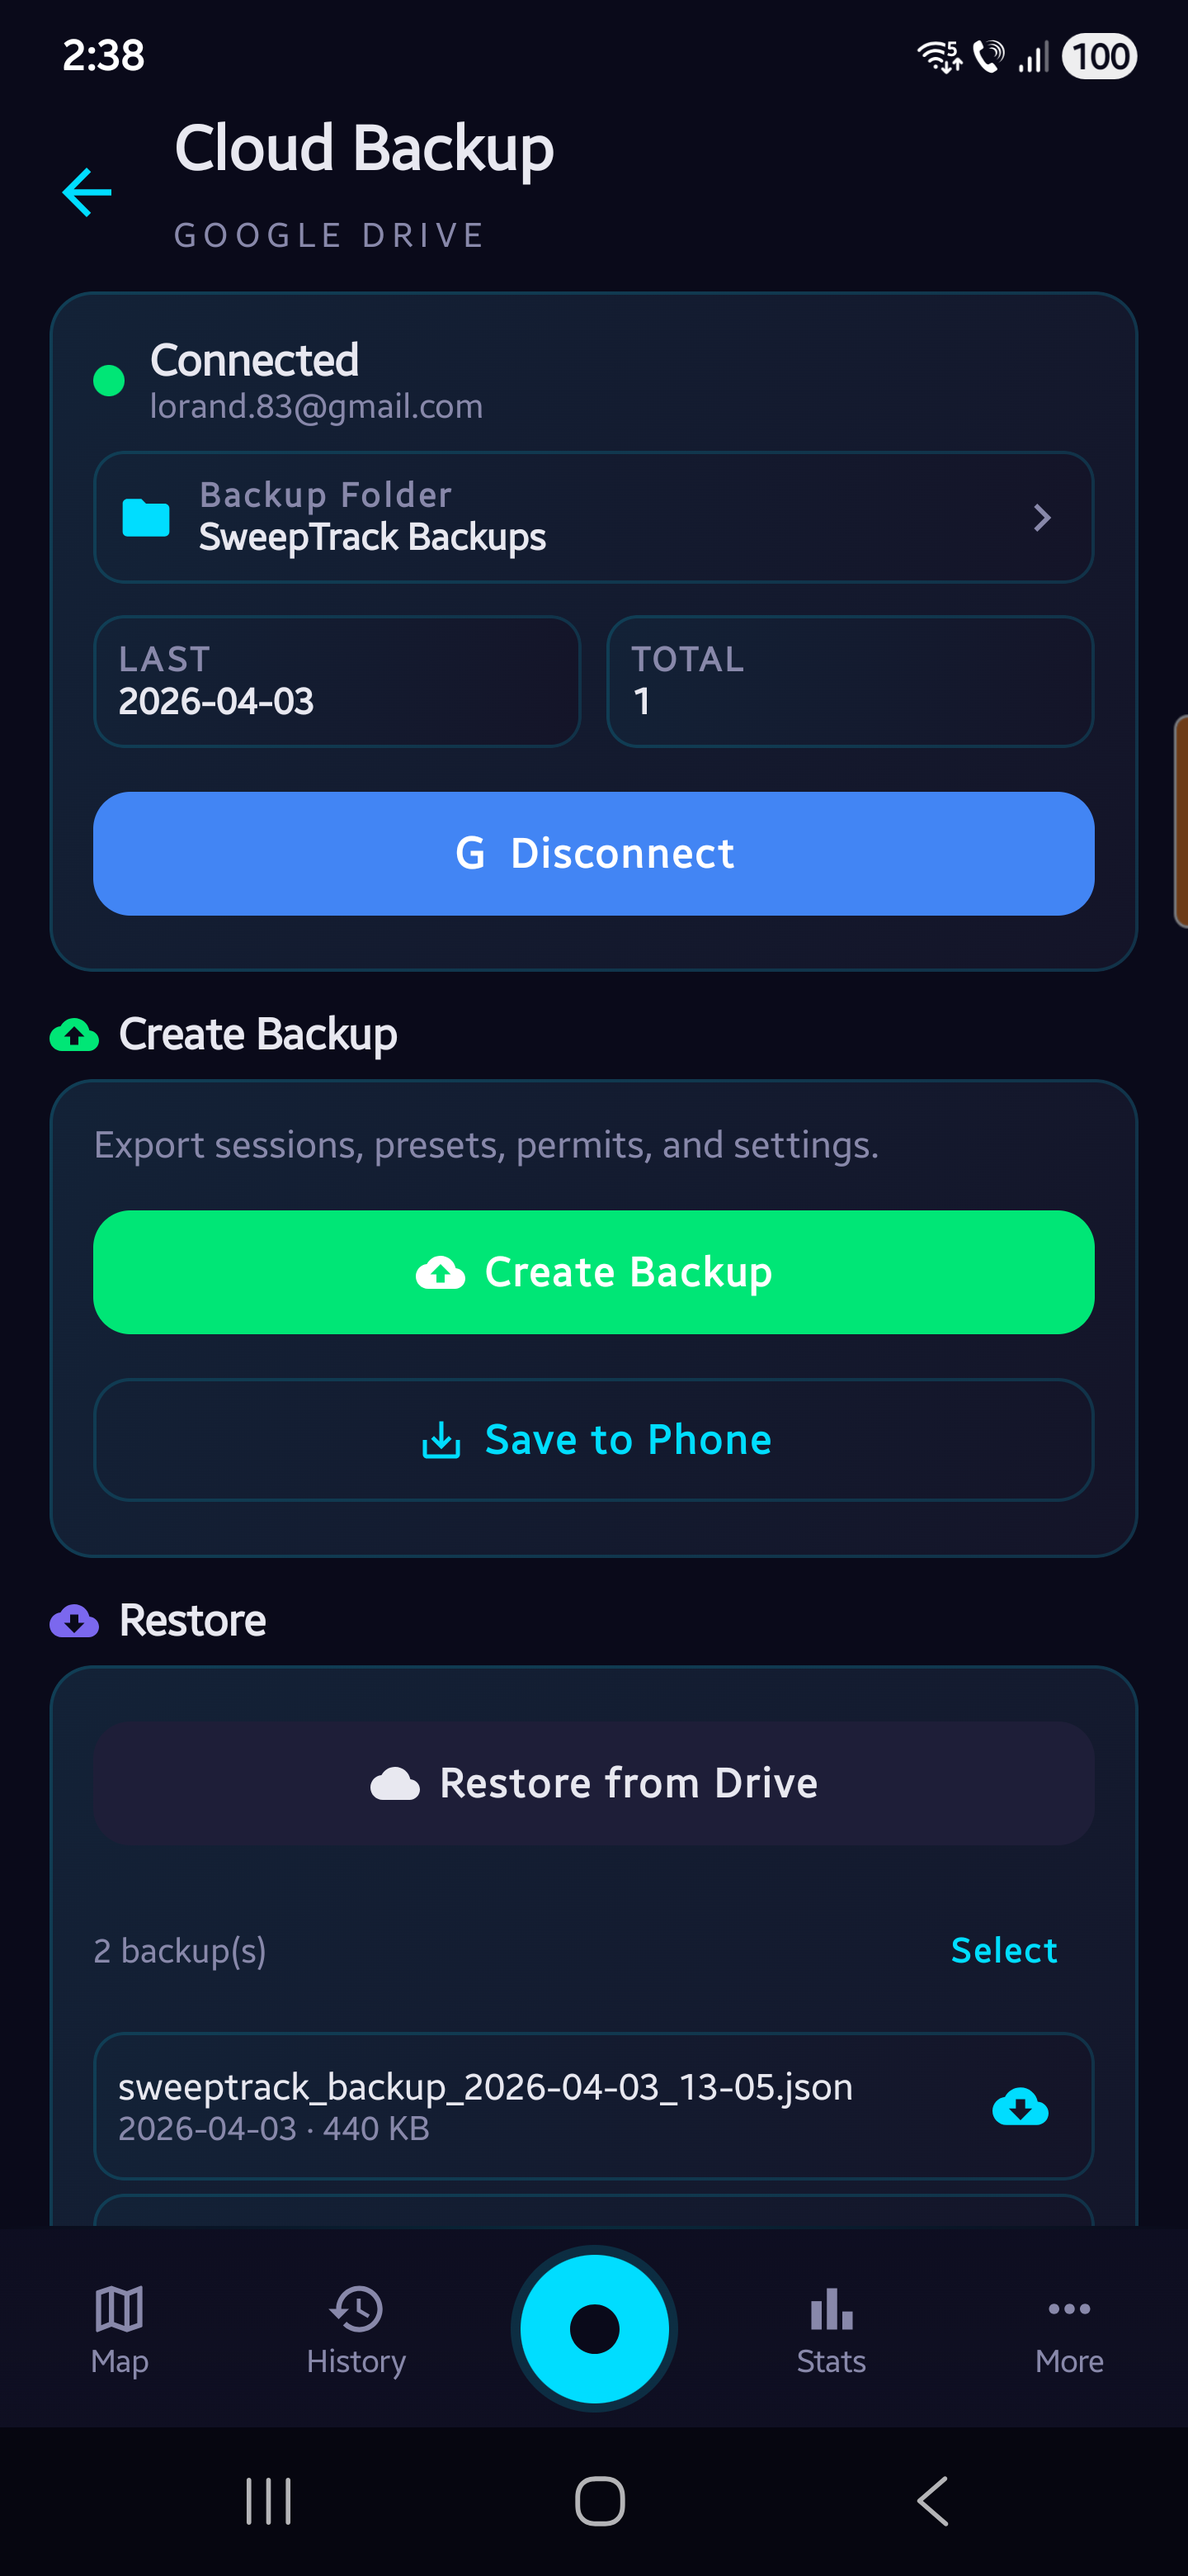
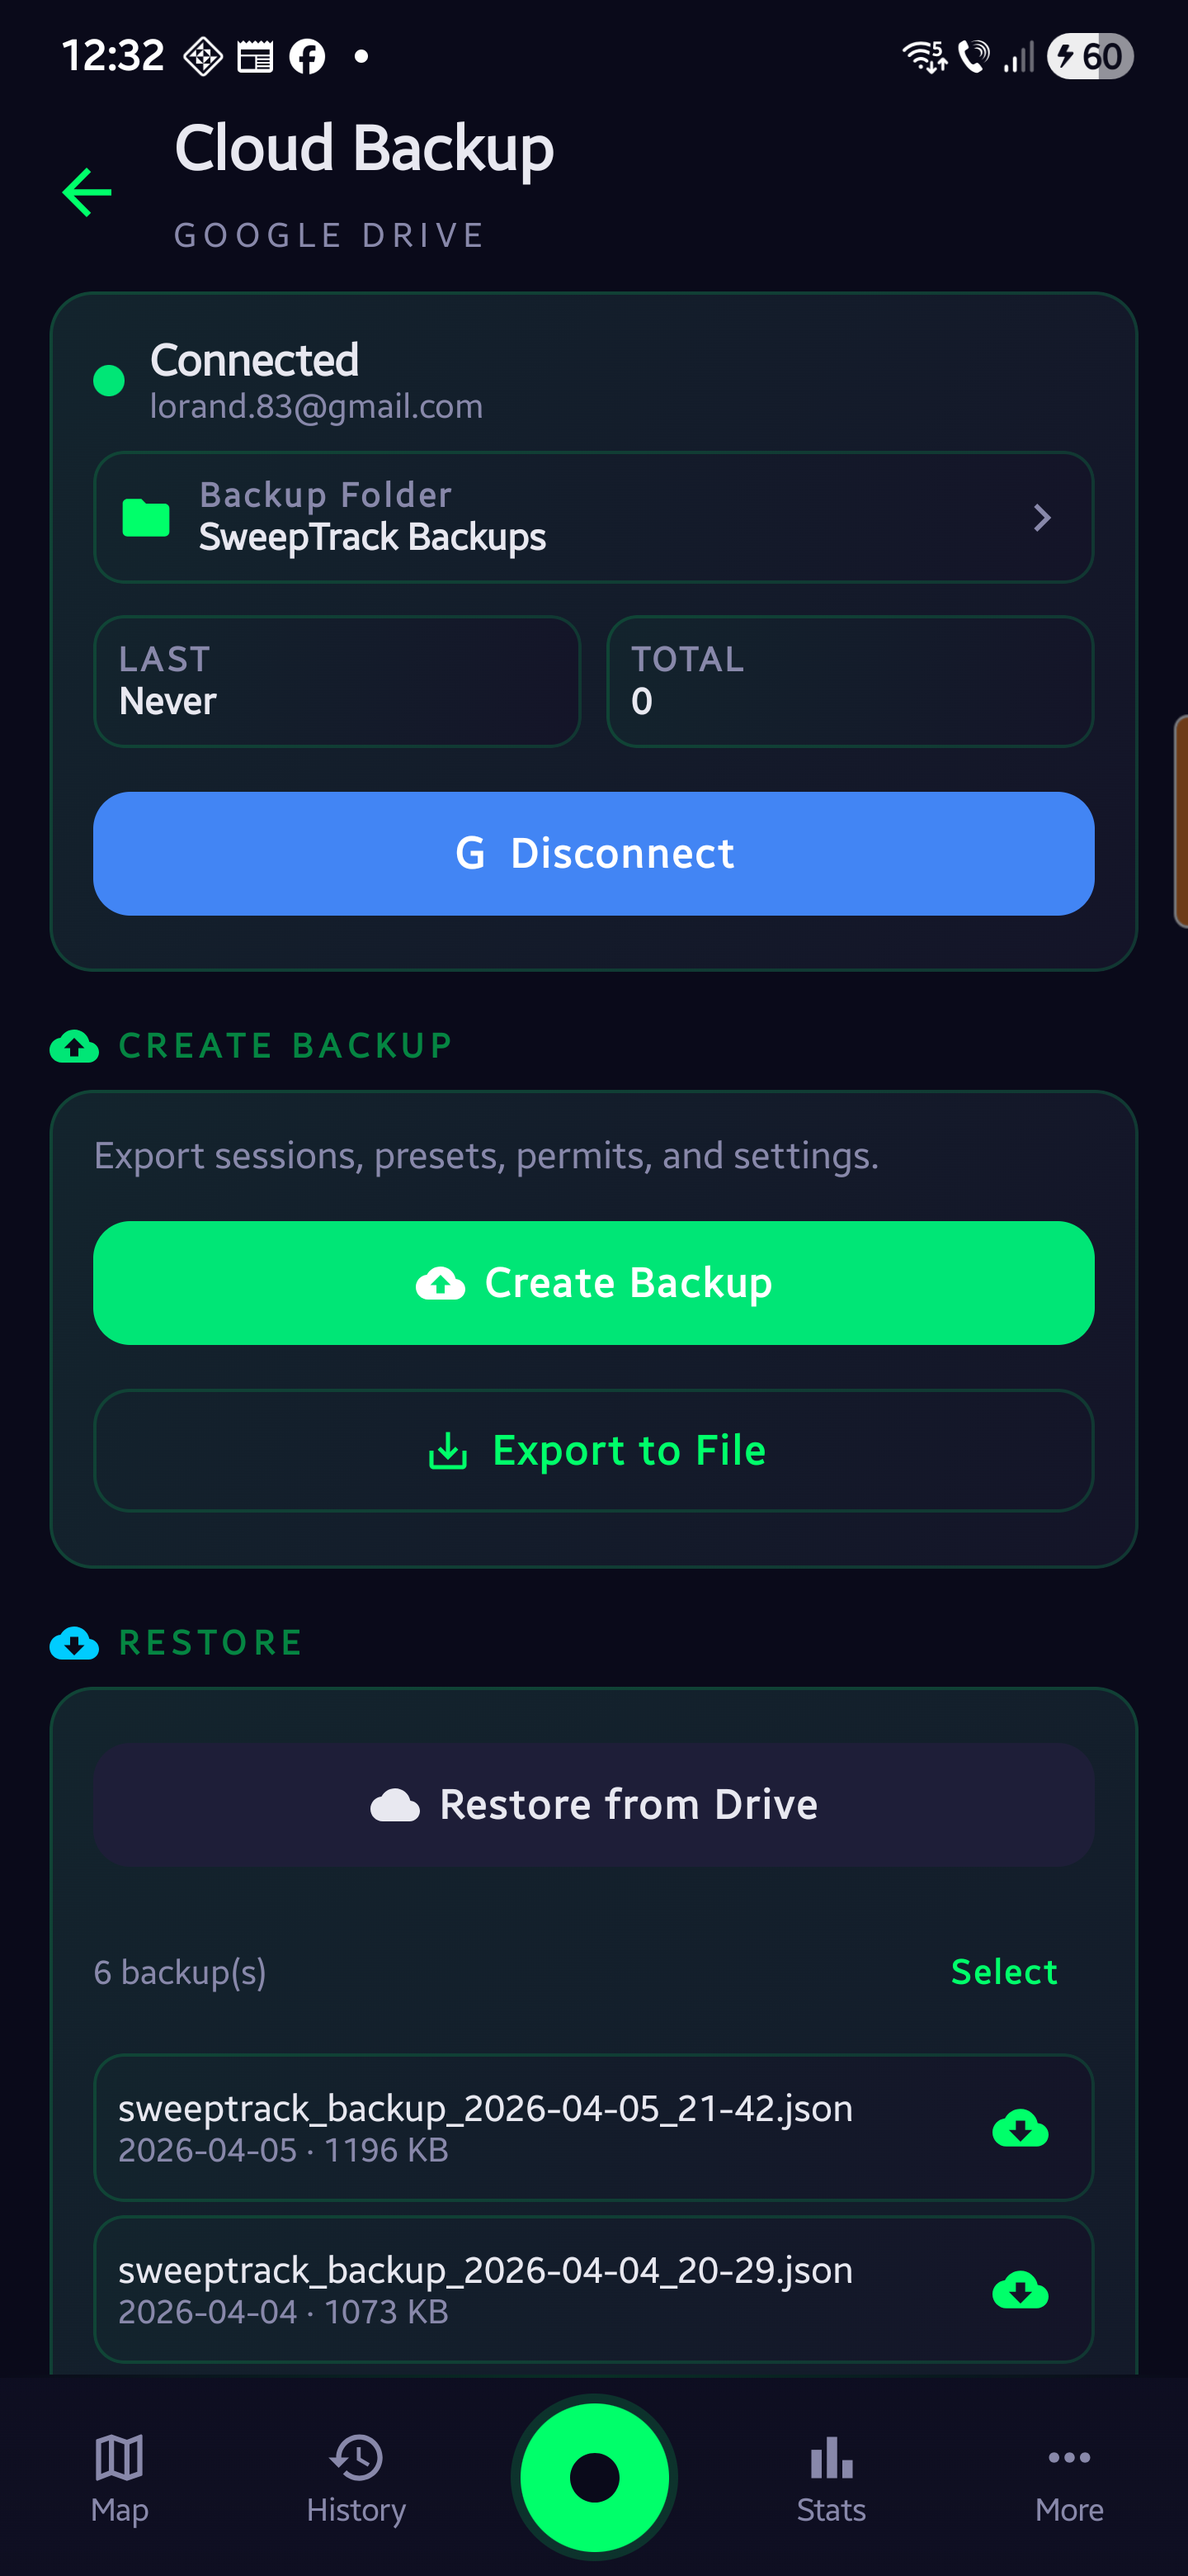
Fresh screenshots from phone + fix tutorial inaccuracies
Screenshots (all recaptured April 9 from live device):
- Home (GPS locked satellite view), History (9 sessions, 88.45km),
  Stats (averages, personal bests, top locations), More menu,
  Detecting Forecast (score 79 Good), Nearby Sites (3 historic, 12 wiki),
  Tide Table, Offline Maps (4 tile sources), Machine Presets (0 of 10),
  Cloud Backup (connected, 6 backups), Permission Manager (empty state),
  Settings (theme, night vision, units, language), Coin Caliper
  (US/UK/RO/EU/Kreuzer regions), Gallery (photos/videos/audio), Tide

Naming fixes (match actual app UI):
- "Session Comparison" → "Map Comparison" everywhere (FAQ, Features,
  FeaturesAll, tutorial article) — matches app's "Map Comparison" label
- Cloud backup tutorial: added "Export to File" option alongside Drive
- Comparing sessions tutorial: "Open Map Comparison from More tab"

diff --git a/app/blog/comparing-sessions-overlay-split/page.tsx b/app/blog/comparing-sessions-overlay-split/page.tsx
@@ -20,7 +20,7 @@ export default function Post() {
           <p>When you detect the same site over multiple visits, comparing sessions shows you how your coverage, finds, and strategy evolved. Session comparison gives you two ways to do this: overlay mode and split view.</p>
 
           <h2 className="text-xl font-semibold text-accent mt-8">Selecting Sessions to Compare</h2>
-          <p>Open the session comparison screen from the History tab. Browse your past sessions and tap the ones you want to compare. For overlay mode you can select up to 4 sessions. For split view, select exactly 2. The app remembers which sessions you compared last, so repeated comparisons are fast.</p>
+          <p>Open Map Comparison from the More tab (under Analysis). Browse your past sessions and tap the ones you want to compare. For overlay mode you can select up to 4 sessions. For split view, select exactly 2.</p>
 
           <h2 className="text-xl font-semibold text-accent mt-8">Overlay Mode</h2>
           <p>Overlay stacks all selected sessions onto a single map. Each session&apos;s path gets a distinct colour so you can tell them apart. Find pins appear in the matching colour. This view is ideal for:</p>

diff --git a/app/blog/cloud-backup-google-drive/page.tsx b/app/blog/cloud-backup-google-drive/page.tsx
@@ -32,7 +32,7 @@ export default function Post() {
           </ul>
 
           <h2 className="text-xl font-semibold text-accent mt-8">Creating a Backup</h2>
-          <p>Tap the backup button to create a snapshot right now. The backup file is compressed and uploaded to your Google Drive. You can see the date and size of your latest backup on the settings screen. It takes just a few seconds for most data sets.</p>
+          <p>You have two options: &ldquo;Create Backup&rdquo; uploads directly to your connected Google Drive. &ldquo;Export to File&rdquo; saves the backup to your phone so you can store it wherever you want. Either way, the backup file contains your full detecting history and takes just a few seconds to create.</p>
 
           <h2 className="text-xl font-semibold text-accent mt-8">Restoring on a New Device</h2>
           <p>Install the app on your new phone, connect the same Google account, and tap Restore. It downloads the latest backup and rebuilds your entire detecting history. All your sessions, finds, presets, and permissions appear exactly as they were.</p>

diff --git a/components/FAQ.tsx b/components/FAQ.tsx
@@ -26,7 +26,7 @@ const faqs = [
   },
   {
     q: "What's the difference between Free and Pro?",
-    a: "Free gives you core GPS tracking, 10 sessions, 5 finds, 1 preset, and basic features. Pro unlocks everything: unlimited sessions and finds, 10 presets, track overlay, heatmap, perimeter guard, permission vault, historical maps, offline maps, detecting forecast, tide table, cloud backup, night vision, session comparison, coin caliper, and all 12 themes.",
+    a: "Free gives you core GPS tracking, 10 sessions, 5 finds, 1 preset, and basic features. Pro unlocks everything: unlimited sessions and finds, 10 presets, track overlay, heatmap, perimeter guard, permission vault, historical maps, offline maps, detecting forecast, tide table, cloud backup, night vision, map comparison, coin caliper, and all 12 themes.",
   },
   {
     q: "Can I export my data?",

diff --git a/components/FeaturesAll.tsx b/components/FeaturesAll.tsx
@@ -160,7 +160,7 @@ const secondaryFeatures = [
   },
   {
     icon: <svg width="18" height="18" viewBox="0 0 24 24" fill="none" stroke="currentColor" strokeWidth="2" strokeLinecap="round" strokeLinejoin="round"><rect x="3" y="3" width="18" height="18" rx="2" /><path d="M3 9h18M9 3v18" /></svg>,
-    title: "Sessions Comparison",
+    title: "Map Comparison",
     description: "Overlay up to 4 sessions or use split view side-by-side to track progress.",
   },
   {

diff --git a/components/Features.tsx b/components/Features.tsx
@@ -119,8 +119,8 @@ const features = [
         <path d="M22 12h-4l-3 9L9 3l-3 9H2" />
       </svg>
     ),
-    title: "Session Comparison",
-    description: "Overlay and side-by-side modes to track progress over time.",
+    title: "Map Comparison",
+    description: "Overlay up to 4 sessions or split view 2 side by side to track progress.",
   },
   {
     icon: (
